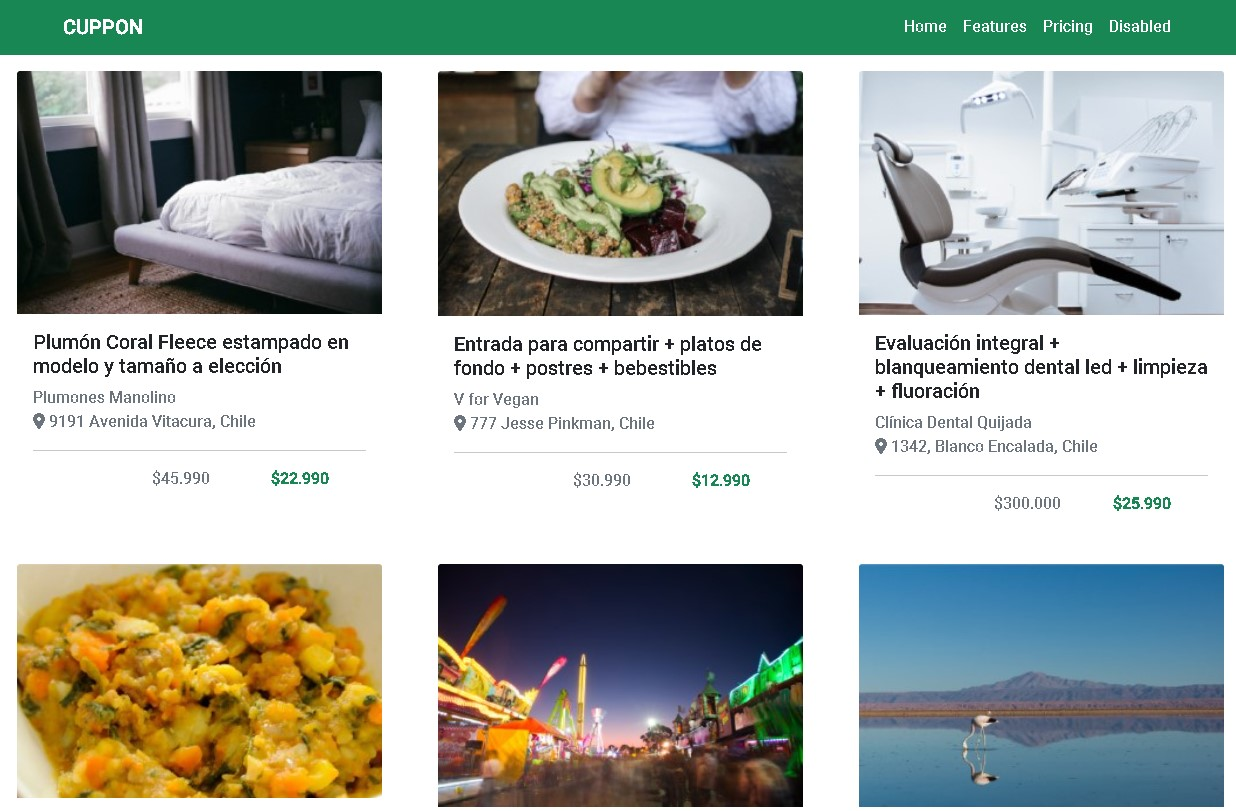
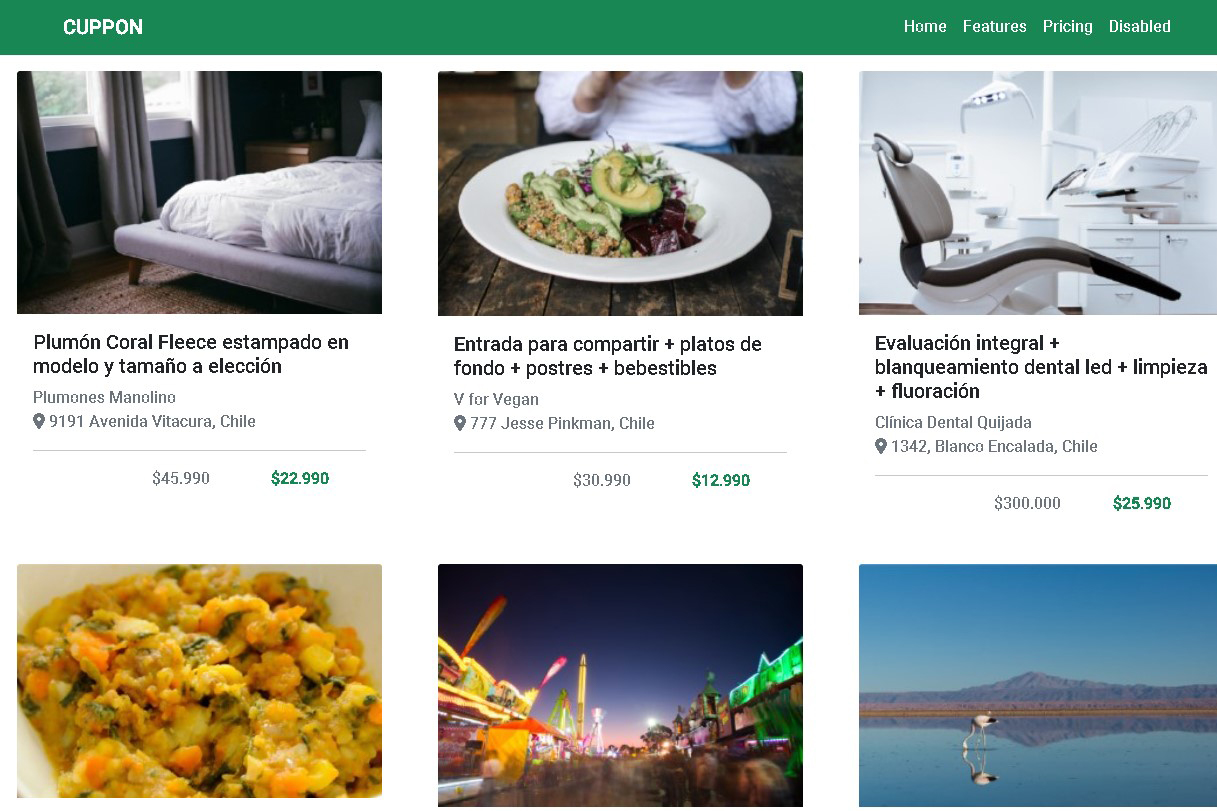
Modificación en tamaño de fotografias y se agregan iconos en las tarjetas de los proyectos

diff --git a/index.html b/index.html
@@ -12,111 +12,239 @@
         integrity="sha384-1BmE4kWBq78iYhFldvKuhfTAU6auU8tT94WrHftjDbrCEXSU1oBoqyl2QvZ6jIW3"
         crossorigin="anonymous"
     />
-
+    <script src="https://kit.fontawesome.com/1757f65818.js" crossorigin="anonymous"></script>
     <link rel="stylesheet" href="./assets/css/style.css" />
     <title>Portafolio Web - Nibaldo Quezada Muñoz</title>
     </head>
-    <body>
+    <body >
 
     <header>
-        <nav class="navbar navbar-expand-md navbar-light bg-dark">
-        <div class="container">
-            <img src="./assets/img/logo-nav.png " alt="Logo y nombre del desarrollados" class="img-fluid col-6" >
-            <!-- <a href="https://github.com/nquezada1981">
-                <img src="./assets/img/logo-nav.png " alt="Logo y nombre del desarrollados" class="img-fluid col-6" >
-            </a> -->
-            <button
-                class="navbar-toggler"
-                type="button"
-                data-bs-toggle="collapse"
-                data-bs-target="#navbarNav"
-                aria-controls="navbarNav"
-                aria-expanded="false"
-                aria-label="Toggle navigation"
-            >
-            <span class="navbar-toggler-icon"></span>
-            </button>
-            <div class="collapse navbar-collapse end-0" id="navbarNav">
-            <ul class="navbar-nav mx-auto ">
-                <li class="nav-item ">
-                <a class="nav-link active text-light" aria-current="page" href="#">Sobre mi</a>
-                </li>
-                <li class="nav-item">
-                <a class="nav-link  text-light" href="#">Mis Proyectos</a>
-                </li>
-                <li class="nav-item">
-                <a class="nav-link  text-light" href="#">Contacto</a>
-                </li>
-            </ul>
+        <img src="./assets/img/logo-nav.png" class="img-fluid p-4 encabezado " alt="Logo Nibaldo Quezada Developer">
+        <nav class="navbar navbar-expand-md navbar-light   col-6 col-md-12">
+            <div class="container">
+                <button
+                    class="navbar-toggler "
+                    type="button"
+                    data-bs-toggle="collapse"
+                    data-bs-target="#navbarNav"
+                    aria-controls="navbarNav"
+                    aria-expanded="false"
+                    aria-label="Toggle navigation"
+                >
+                <span class="navbar-toggler-icon"></span>
+                </button>
+                <div class="collapse navbar-collapse end-0" id="navbarNav">
+                <ul class="navbar-nav mx-auto">
+                    <li class="nav-item ">
+                    <a class="nav-link active text-light h3" aria-current="page" href="#">Sobre mi</a>
+                    </li>
+                    <li class="nav-item">
+                    <a class="nav-link  text-light h3" href="#">Mis Proyectos</a>
+                    </li>
+                    <li class="nav-item">
+                    <a class="nav-link  text-light h3" href="#">Contacto</a>
+                    </li>
+                </ul>
+                </div>
             </div>
-        </div>
-        </nav>
-    </header>
-    <main class="container">
+            </nav>
 
-        <div class="card mb-3" >
+
+
+
+
+    </header>
+    <main class="container ">
+
+        <div class="card mb-3 " >
             <div class="row g-0">
                 <div class="col-md-4">
-                    <img src="./assets/img/personal.png" class="img-fluid rounded-start " alt="Fotografia Nibaldo Quezada">
+                    <img src="./assets/img/personal.png" class="img-fluid rounded-start  " alt="Fotografia Nibaldo Quezada">
                 </div>
                     <div class="col-md-8 ">
                         <div class="card-body text-light">
                             <h5 class="card-title fs-1">Sobre mi</h5>
-                                <p class="card-text">This is a wider card with supporting text below as a natural lead-in to additional content. This content is a little bit longer.</p>
+                                <p class="card-text">
+                                    <p>
+                                            Soy un individuo motivado y autodirigido que puede trabajar en equipo o de manera independiente. He demostrado mi capacidad para trabajar en proyectos de equipo colaborando con otros    desarrolladores, diseñadores y especialistas en marketing para entregar proyectos de manera oportuna y satisfacer  las necesidades de los clientes.
+                                    </p>
+                                    <p>
+                                        Durante mi trayectoria profesional, he trabajado en una amplia variedad de proyectos, desde la creación de sitios web simples hasta la implementación de soluciones de software complejas. He desarrollado habilidades en el diseño de UI / UX, programación orientada a objetos, estructuras de datos, bases de datos, integración de APIs y mucho más.
+                                    </p>
+                                    <p>
+                                        Además, mi experiencia con React y Next.js me ha permitido trabajar en proyectos de vanguardia y crear aplicaciones web modernas y escalables. Con mi conocimiento de Python y Java, he desarrollado aplicaciones de escritorio y servidores para clientes que requieren soluciones personalizadas.
+                                    </p>
+                                </p>
                                 <p class="card-text"><small class="text-light ">Last updated 3 mins ago</small></p>
                         </div>
                 </div>
             </div>
         </div>
     </main>
+    
+    <section class="container-center">
+        <h5 class="card-title fs-1 text-center">PORTAFOLIO</h5>
 
-    <section class="container">
-        <h5 class="card-title fs-1">PORTAFOLIO</h5>
-
-        <div class="row row-cols-1 row-cols-md-2 g-4">
-            <div class="col">
+        <div class="row g-3">
+            <div class="col-12 col-md-6 col-lg-4">
                 <div class="card">
-                    <img src="./assets/img/card-1.jpg" class="img-fluid" alt="...">
+                    <img  src="./assets/img/card-1.jpg" alt="Curriculum Vitae en HTML" class="card-img-top">
                     <div class="card-body">
-                    <h5 class="card-title">Card title</h5>
-                    <p class="card-text">This is a longer card with supporting text below as a natural lead-in to additional content. This content is a little bit longer.</p>
-                    </div>
-                </div>
-                </div>
-                <div class="col">
-                <div class="card">
-                    <img src="./assets/img/card-2.jpg" class="img-fluid" alt="...">
-                    <div class="card-body">
-                    <h5 class="card-title">Card title</h5>
-                    <p class="card-text">This is a longer card with supporting text below as a natural lead-in to additional content. This content is a little bit longer.</p>
-                    </div>
-                </div>
-                </div>
-                <div class="col">
-                <div class="card">
-                    <img src="./assets/img/card-3.jpg" class="img-fluid" alt="...">
-                    <div class="card-body">
-                    <h5 class="card-title">Card title</h5>
-                    <p class="card-text">This is a longer card with supporting text below as a natural lead-in to additional content.</p>
-                    </div>
-                </div>
-                </div>
-                <div class="col">
-                <div class="card">
-                    <img src="./assets/img/card-4.jpg" class="img-fluid" alt="...">
-                    <div class="card-body">
-                    <h5 class="card-title">Card title</h5>
-                    <p class="card-text">This is a longer card with supporting text below as a natural lead-in to additional content. This content is a little bit longer.</p>
+                        <h5 class="card-title">Curriculum vitae en HTML</h5>
+                        <p class="card-text">
+                            Lorem ipsum dolor sit amet consectetur, adipisicing elit. Eum delectus dolorem sit, quod quis, a assumenda, ipsa aspernatur enim illo reiciendis! Aperiam et enim, itaque velit aliquid eligendi explicabo facere.
+                            
+                            </p>
+                        <div class="row">
+                            <div class="col-6">                                
+                                <a href="https://github.com/nquezada1981/PORTAFOLIO" target="_blank" rel="noopener">
+                                    <i class="fa-brands fa-github fa-xl" style="color: white;"></i>
+                                    <small class="text-muted">Ver repositorio</small>
+                                </a>                                                               
+                            </div>
+                            <div class="col-6">                                
+                                <a href="https://github.com/nquezada1981/PORTAFOLIO" target="_blank" rel="noopener">
+                                    <i class="fa-solid fa-globe fa-xl" style="color: white;"></i>
+                                    <small class="text-muted">Ver página</small>
+                                </a>                                                               
+                            </div>
+                        </div>
                     </div>
                 </div>
             </div>
+
+            <div class="col-12 col-md-6 col-lg-4">
+                <div class="card">
+                    <img  src="./assets/img/card-2.jpg" alt="Curriculum Vitae en HTML" class="card-img-top">
+                    <div class="card-body">
+                        <h5 class="card-title">Curriculum vitae en HTML</h5>
+                        <p class="card-text">Lorem ipsum dolor sit amet consectetur adipisicing elit. Architecto animi voluptatem quaerat temporibus quidem nulla deleniti expedita doloribus ex. Ratione consequuntur ad, ipsam praesentium corrupti sunt. Minus id enim veritatis.</p>
+                        <div class="row">
+                            <div class="col-6">                                
+                                <a href="https://github.com/nquezada1981/PORTAFOLIO" target="_blank" rel="noopener">
+                                    <i class="fa-brands fa-github fa-xl" style="color: white;"></i>
+                                    <small class="text-muted">Ver repositorio</small>
+                                </a>                                                               
+                            </div>
+                            <div class="col-6">                                
+                                <a href="https://github.com/nquezada1981/PORTAFOLIO" target="_blank" rel="noopener">
+                                    <i class="fa-solid fa-globe fa-xl" style="color: white;"></i>
+                                    <small class="text-muted">Ver página</small>
+                                </a>                                                               
+                            </div>
+                        </div>
+                    </div>
+                </div>
+            </div>
+
+            <div class="col-12 col-md-6 col-lg-4">
+                <div class="card">
+                    <img  src="./assets/img/card-3.jpg" alt="Curriculum Vitae en HTML" class="card-img-top">
+                    <div class="card-body">
+                        <h5 class="card-title">Curriculum vitae en HTML</h5>
+                        <p class="card-text">Lorem ipsum dolor sit amet consectetur adipisicing elit. Architecto animi voluptatem quaerat temporibus quidem nulla deleniti expedita doloribus ex. Ratione consequuntur ad, ipsam praesentium corrupti sunt. Minus id enim veritatis.</p>
+                        <div class="row">
+                            <div class="col-6">                                
+                                <a href="https://github.com/nquezada1981/PORTAFOLIO" target="_blank" rel="noopener">
+                                    <i class="fa-brands fa-github fa-xl" style="color: white;"></i>
+                                    <small class="text-muted">Ver repositorio</small>
+                                </a>                                                               
+                            </div>
+                            <div class="col-6">                                
+                                <a href="https://github.com/nquezada1981/PORTAFOLIO" target="_blank" rel="noopener">
+                                    <i class="fa-solid fa-globe fa-xl" style="color: white;"></i>
+                                    <small class="text-muted">Ver página</small>
+                                </a>                                                               
+                            </div>
+                        </div>
+                    </div>
+                </div>
+            </div>
+
+            <div class="col-12 col-md-6 col-lg-4">
+                <div class="card">
+                    <img  src="./assets/img/card-4.jpg" alt="Curriculum Vitae en HTML" class="card-img-top">
+                    <div class="card-body">
+                        <h5 class="card-title">Curriculum vitae en HTML</h5>
+                        <p class="card-text">Lorem ipsum dolor sit amet consectetur adipisicing elit. Architecto animi voluptatem quaerat temporibus quidem nulla deleniti expedita doloribus ex. Ratione consequuntur ad, ipsam praesentium corrupti sunt. Minus id enim veritatis.</p>
+                        <div class="row">
+                            <div class="col-6">                                
+                                <a href="https://github.com/nquezada1981/PORTAFOLIO" target="_blank" rel="noopener">
+                                    <i class="fa-brands fa-github fa-xl" style="color: white;"></i>
+                                    <small class="text-muted">Ver repositorio</small>
+                                </a>                                                               
+                            </div>
+                            <div class="col-6">                                
+                                <a href="https://github.com/nquezada1981/PORTAFOLIO" target="_blank" rel="noopener">
+                                    <i class="fa-solid fa-globe fa-xl" style="color: white;"></i>
+                                    <small class="text-muted">Ver página</small>
+                                </a>                                                               
+                            </div>
+                        </div>
+                    </div>
+                </div>
+            </div>
+
+            <div class="col-12 col-md-6 col-lg-4">
+                <div class="card">
+                    <img  src="./assets/img/card-5.jpg" alt="Curriculum Vitae en HTML" class="card-img-top">
+                    <div class="card-body">
+                        <h5 class="card-title">Curriculum vitae en HTML</h5>
+                        <p class="card-text">Lorem ipsum dolor sit amet consectetur adipisicing elit. Architecto animi voluptatem quaerat temporibus quidem nulla deleniti expedita doloribus ex. Ratione consequuntur ad, ipsam praesentium corrupti sunt. Minus id enim veritatis.</p>
+                        <div class="row">
+                            <div class="col-6">                                
+                                <a href="https://github.com/nquezada1981/PORTAFOLIO" target="_blank" rel="noopener">
+                                    <i class="fa-brands fa-github fa-xl" style="color: white;"></i>
+                                    <small class="text-muted">Ver repositorio</small>
+                                </a>                                                               
+                            </div>
+                            <div class="col-6">                                
+                                <a href="https://github.com/nquezada1981/PORTAFOLIO" target="_blank" rel="noopener">
+                                    <i class="fa-solid fa-globe fa-xl" style="color: white;"></i>
+                                    <small class="text-muted text-light" >Ver página</small>
+                                </a>                                                               
+                            </div>
+                        </div>
+                    </div>
+                </div>
+            </div>
+
         </div>
+
+
+
     </section>
 
     <footer>
         <div>
             <p>
-                &copy; Contactame en mis redes sociales 
+                <div class="row p-3">
+                    <div class="col text-center">
+                        &copy; Contactame en mis redes sociales
+                    </div>
+                </div>
+                <div class="row p-3">
+                    <div class="col text-center">
+                        <a href="https://github.com/nquezada1981" aria-label="Twitter" target="_blank" rel="noopener">
+                            <i class="fa-brands fa-github fa-2xl"></i>
+                        </a>
+                    </div>
+                    <div class="col text-center">
+                        <a href="" aria-label="Twitter" target="_blank" rel="noopener">
+                            <i class="fa-solid fa-globe fa-2xl"></i>
+                        </a>
+                    </div>
+                    <div class="col text-center">
+                        <a href="https://www.linkedin.com/in/nibaldo-quezada-mu%C3%B1oz-589681268/" aria-label="Twitter" target="_blank" rel="noopener">
+                            <i class="fa-brands fa-linkedin fa-2xl"></i>
+                        </a>
+                    </div>
+                    <div class="col text-center">
+                        <a href="https://twitter.com/NibaldoQ" aria-label="Twitter" target="_blank" rel="noopener">
+                            <i class="fa-brands fa-twitter fa-2xl"></i>
+                        </a>
+                    </div>
+                </div>
             </p>
         </div>
     </footer>

diff --git a/assets/css/style.css b/assets/css/style.css
@@ -1,8 +1,3 @@
-img {
-    height: 3rem;
-}
-
-
 footer {
     background: black;
     padding: 20px 0;
@@ -15,14 +10,36 @@ footer {
 }
 
 body  {
-    background-color: #006298;
+    /* background-color: #006298; */
+    background-color: black;
 }
 
 .card {
-    border: none;
+    
+    /* border: none; */
     background-color: #006298;
 }
 
 .portafolio {
     padding-top: 50px;
+}
+
+nav encabezado {
+    background-color: black;
+}
+
+encabezado {
+    background-color: black;
+}
+
+.card-text {
+    color: white;
+}
+
+.card-title {
+    color: white;
+}
+
+.small {
+    color: white;
 }
